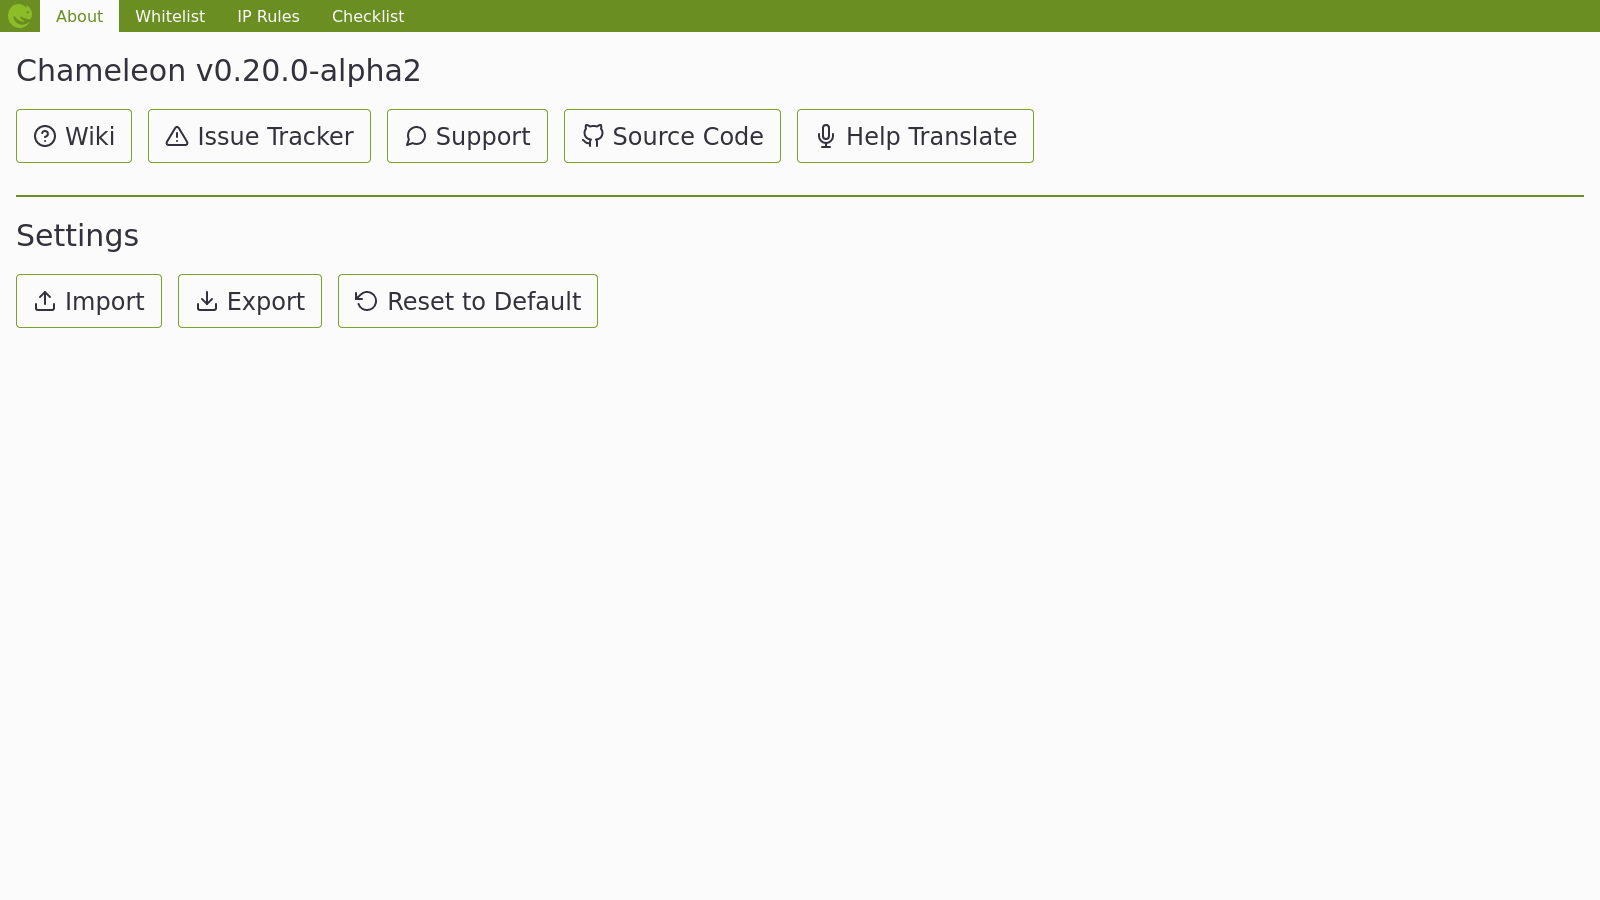
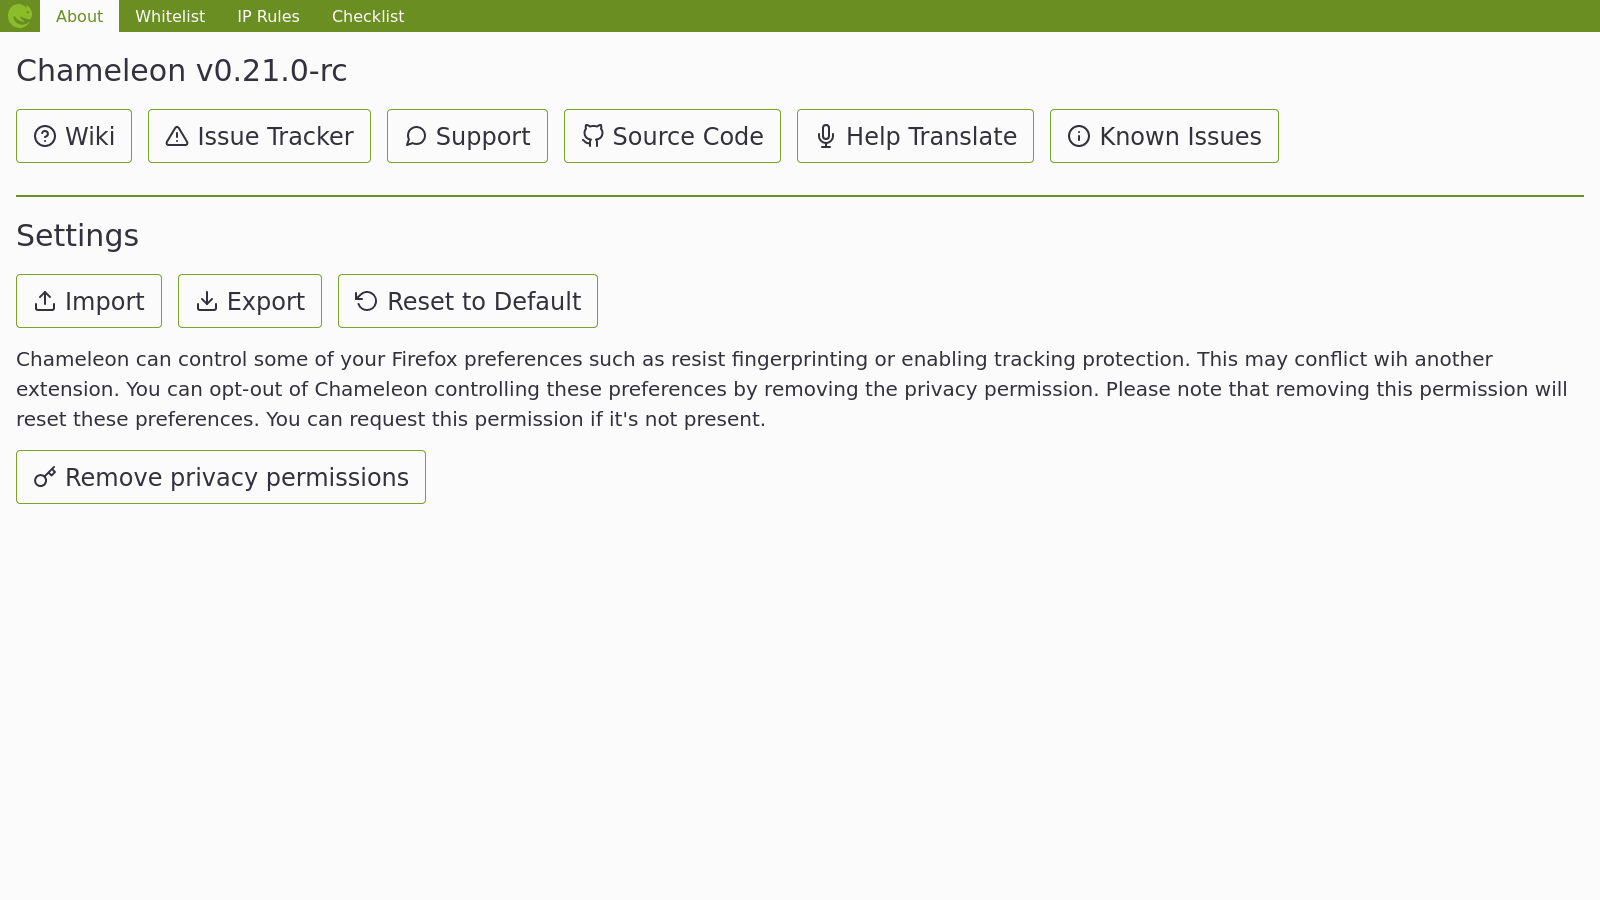
refactor(wiki): update permissions and dashboard for v0.21.0 changes

Changed region(s): [[0.0, 0.3733, 0.9688, 0.56], [0.6562, 0.1244, 0.7812, 0.1867], [0.1562, 0.0622, 0.2812, 0.0933]]

diff --git a/src/routes/wiki/getting-started.svelte b/src/routes/wiki/getting-started.svelte
@@ -71,6 +71,10 @@
           The dashboard can be accessed by clicking the gear icon on the Chameleon popup. You can export, import,
           and reset your settings here. It also provides quick access to helpful resources for the Chameleon community. 
         </p>
+        <p class="py-2">
+          v0.21.0 allows users to request the privacy permission to toggle certain options. Click "Request privacy permissions",
+          and then grant Chameleon the privacy permission.
+        </p>
       </div>
     </div>
   </div>

diff --git a/src/routes/wiki/permissions.svelte b/src/routes/wiki/permissions.svelte
@@ -20,7 +20,7 @@
       Used to display notification when profile has been updated
     </div>
     <div class="mb-4">
-      <h3 class="font-semibold text-xl">Privacy</h3>
+      <h3 class="font-semibold text-xl">Privacy (optional in v0.21.0+)</h3>
       Used to control privacy settings like first party isolation and resist fingerprinting
     </div>
     <div class="mb-4">
